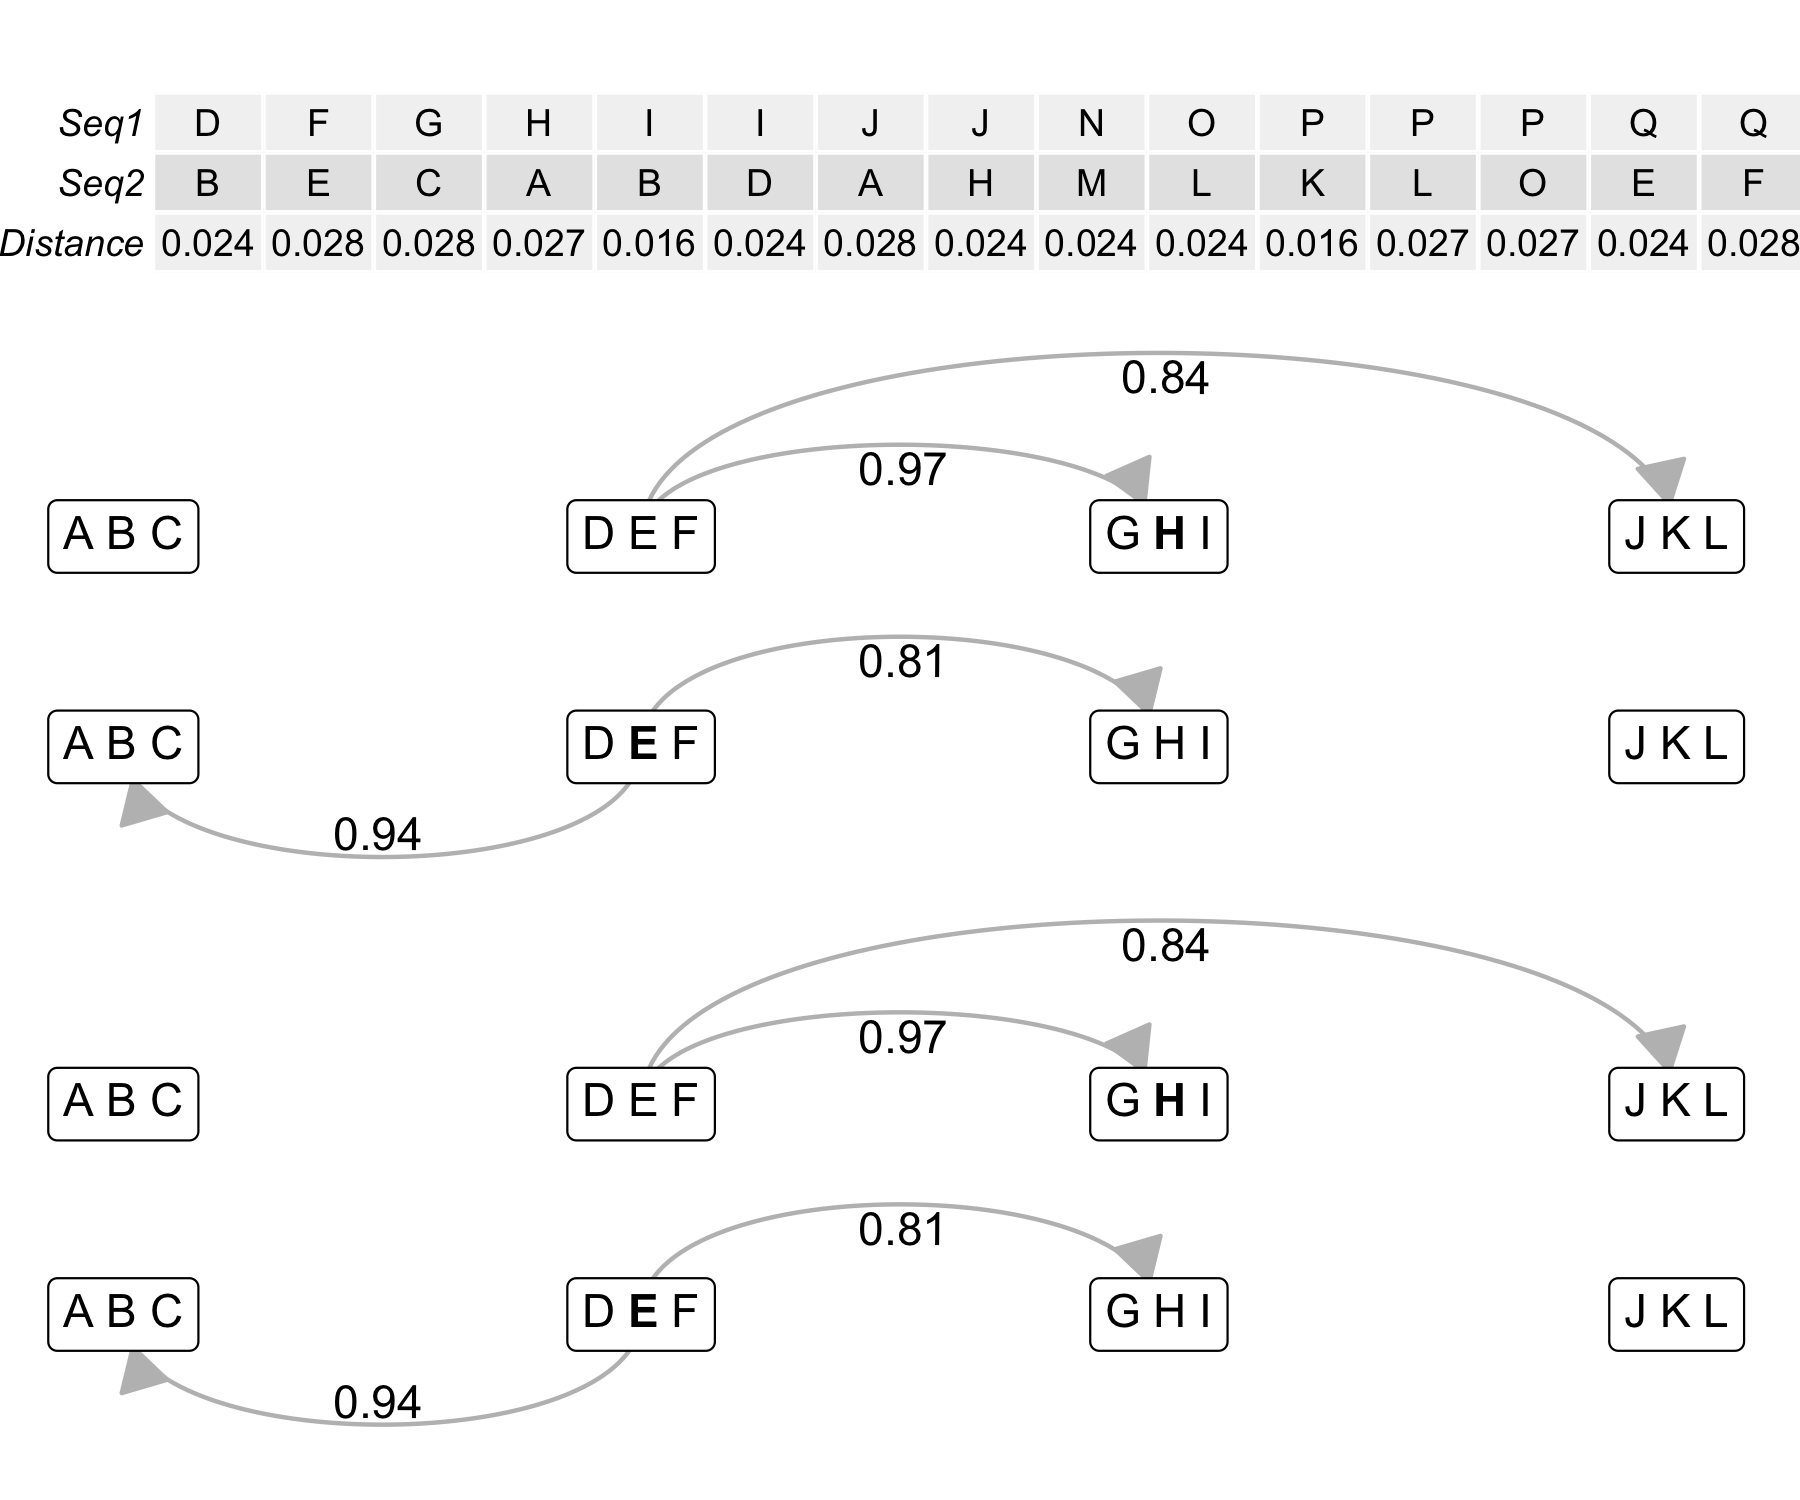
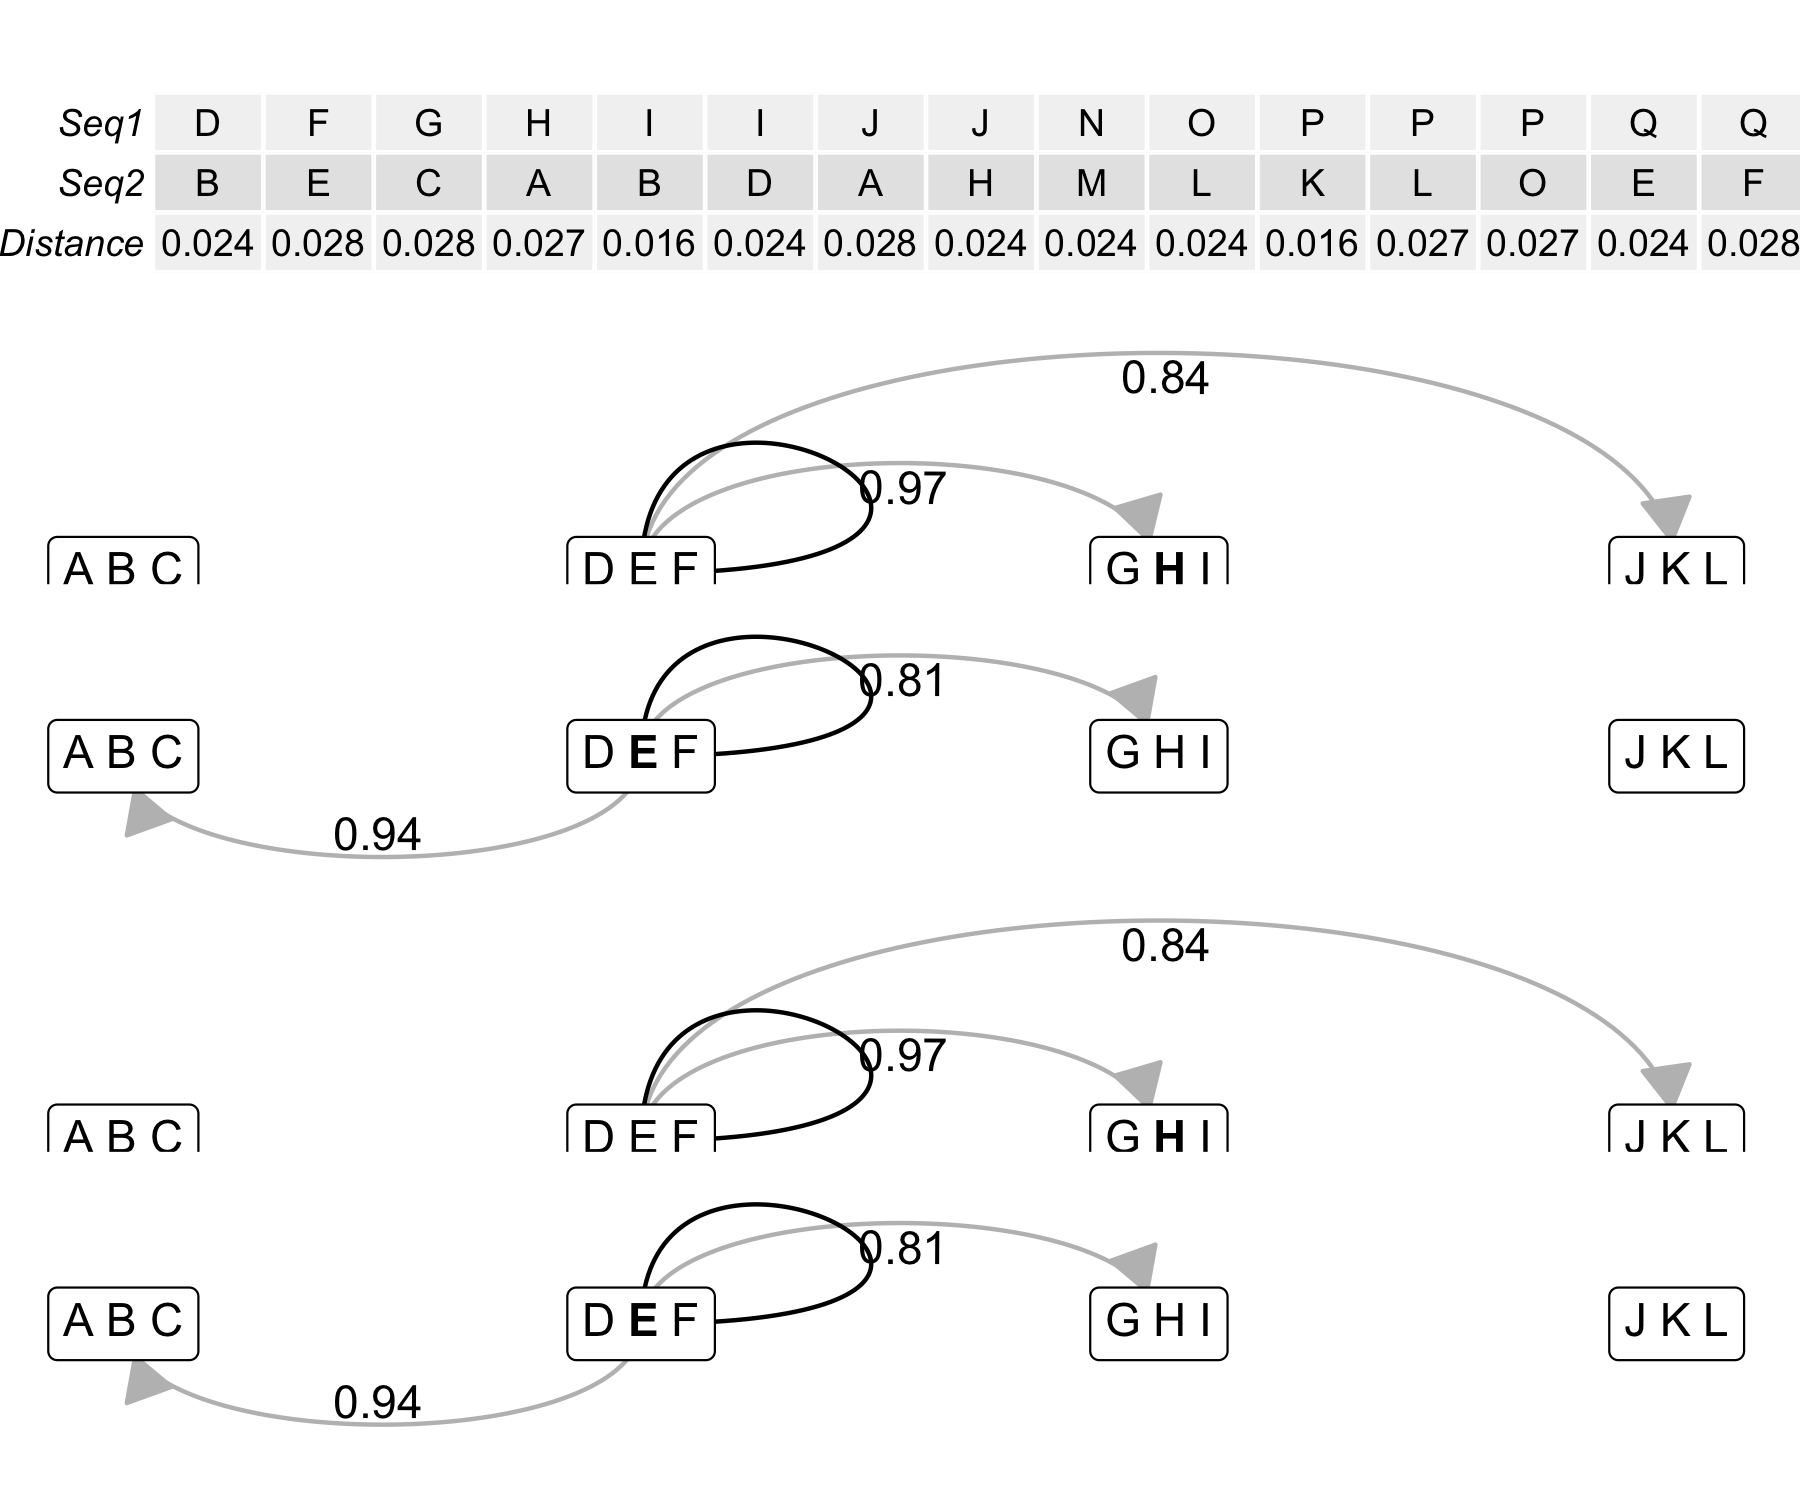
Fix bugs after refactor... i think

diff --git a/code/py/algorithm_diagram.py b/code/py/algorithm_diagram.py
@@ -90,7 +90,7 @@ def otu_list_to_dict(otu_list):
     """
     return {seq: idx for idx, otu in enumerate(otu_list) for seq in otu}
 
-def format_seq(s, optifit, curr_seq, color_curr_seq = False, do_color = False,
+def format_seq(s, curr_seq, query_seqs, color_curr_seq = False, do_color = False,
                base_color = "#000000",
                ref_color = "#D95F02",
                query_color = "#1B9E77"):
@@ -102,7 +102,7 @@ def format_seq(s, optifit, curr_seq, color_curr_seq = False, do_color = False,
         s = f"**{s}**"
         color = query_color if color_curr_seq else base_color
     else:
-        color = query_color if s in optifit.query_seqs else ref_color
+        color = query_color if s in query_seqs else ref_color
 
     return f"<span style = 'color:{color};'>{s}</span>" if do_color else s
 
@@ -238,14 +238,14 @@ class OptiFit:
             prev_mcc = self.mcc
             for seq in self.query_seqs:
                 if seq in self.fitmap.dist_mat:
-                    iteration = OptiIter(curr_fitmap, seq)
+                    iteration = OptiIter(curr_fitmap, seq, self.query_seqs)
                     iterations.append(iteration.to_dict)
                     curr_fitmap = iteration.best_map
         return iterations
 
 
 class OptiIter:
-    def __init__(self, curr_fitmap, curr_seq):
+    def __init__(self, curr_fitmap, curr_seq, query_seqs):
         """
         Calculate possible MCCs if the current seq is moved to different OTUs.
         Store the nodes and edges as dictionaries for tidygraph.
@@ -263,7 +263,7 @@ class OptiIter:
 
         self.edges = pandas.DataFrame.from_dict(edges)
         self.nodes = pandas.DataFrame.from_dict(
-          {'name': [' '.join([format_seq(s, optifit, curr_seq)
+          {'name': [' '.join([format_seq(s, curr_seq, query_seqs)
                               for s in sorted(otu)])
                     for otu in curr_fitmap.otus_to_seqs.values()],
            'id': list(curr_fitmap.otus_to_seqs.keys())

diff --git a/exploratory/2021/algorithm_diagram.md b/exploratory/2021/algorithm_diagram.md
@@ -1,4 +1,4 @@
-2021-07-16
+2021-07-17
 
 ``` r
 library(here)
@@ -194,9 +194,11 @@ plot_graph <- function(graph) {
                 angle_calc = 'along',
                 label_dodge = unit(-2, 'mm')
                 ) +
-  geom_edge_loop(aes(span = 1, direction = 270, strength = 0.2, color = is_loop)) +
+  geom_edge_loop(aes(#span = 1, strength = 0.2, direction = 270, 
+                     color = is_loop)) +
   geom_node_label(aes(label = name)) +
-    scale_edge_color_manual(values = c('white')) +
+    scale_edge_color_manual(values = c('black')#c('white')
+                            ) +
   theme_void() +
   theme(plot.margin=unit(x=c(0,0,10,0), units="pt"),
         legend.position = 'none')
@@ -226,7 +228,7 @@ plot_layout(heights = c(1,4))
 
 ![](figures/ggraph_exp-1.png)<!-- -->
 
-## maybe I’ll do everything in python until the actual plotting step
+## do backend in python until the actual plotting step
 
 ``` r
 reticulate::source_python(here('code', 'py', 'algorithm_diagram.py'))
@@ -239,9 +241,9 @@ optifit_iters <- run_optifit() %>%
 ```
 
 ``` r
-g <- tbl_graph(nodes = optifit_iters[[1]]$nodes,
-               edges = optifit_iters[[1]]$edges)
-plot_graph(g)
+tbl_graph(nodes = optifit_iters[[1]]$nodes,
+          edges = optifit_iters[[1]]$edges) %>% 
+  plot_graph()
 ```
 
     ## Warning: Ignoring unknown parameters: parse
@@ -255,6 +257,8 @@ lapply(optifit_iters, function(x) {
 }) %>% 
   wrap_plots(ncol = 1)
 ```
+
+    ## Warning: Ignoring unknown parameters: parse
 
     ## Warning: Ignoring unknown parameters: parse
 
